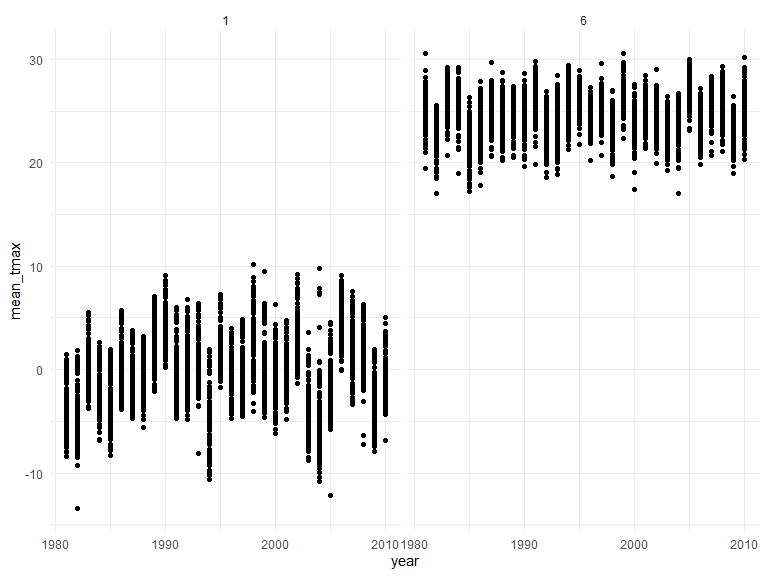
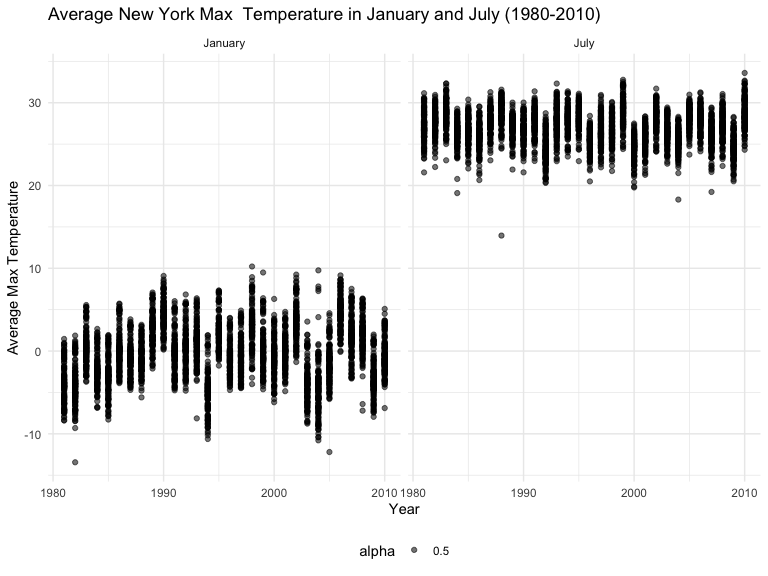
changed label to graph

diff --git a/p8105_hw3_pc2979.md b/p8105_hw3_pc2979.md
@@ -9,6 +9,7 @@ library(ggridges)
 library(patchwork)
 library(readxl)
 library(p8105.datasets)
+library(patchwork)
 
 knitr::opts_chunk$set(
     echo = TRUE,
@@ -114,7 +115,6 @@ instacart %>% count(aisle) %>% arrange(desc(n))
     ##  9 soy lactosefree                26240
     ## 10 bread                          23635
     ## # … with 124 more rows
-    ## # ℹ Use `print(n = ...)` to see more rows
 
 There are a total of 134 aisles. Most items were ordered from the fresh
 vegetables, fresh fruits, and packaged vegetables fruits aisles.
@@ -238,7 +238,7 @@ obvious.
 ``` r
 accel %>% 
   ggplot(aes(x = hour, y = activity, color = day_of_week)) + 
-  geom_point(aes(alpha = 0.5)) + 
+  geom_point(aes(alpha = 0.05)) + 
   scale_x_continuous(
     breaks = c(0, 6, 12, 18, 24)
   ) +
@@ -322,8 +322,8 @@ ny_noaa <-
     month = lubridate::month(date),
     day = lubridate::day(date),
     snow = ifelse(snow == -13, NA, snow),
-    tmax = as.numeric(tmax)/10,
-    tmin = as.numeric(tmin)/10,
+    tmax = (as.numeric(tmax))/10,
+    tmin = (as.numeric(tmin))/10,
     prcp = prcp/10
   )
 ```
@@ -351,7 +351,6 @@ ny_noaa %>%
     ##  9    38    9197
     ## 10     3    8790
     ## # … with 271 more rows
-    ## # ℹ Use `print(n = ...)` to see more rows
 
 The top 5 commonly observed values of snowfall is 0, 25, 13, 51, and 76.
 This is reasonable as most days in NY don’t experience snowfall and when
@@ -363,15 +362,37 @@ interpretable structure? Any outliers?
 
 ``` r
 ny_noaa %>%
+  filter(month %in% c(1,7)) %>%
   group_by(id, year, month) %>%
   summarize(mean_tmax = mean(tmax, na.rm = TRUE)) %>%
-  filter(month %in% c(1,6)) %>%
-  ggplot(aes(x = year, y = mean_tmax, group = id)) +
-  geom_point() +
-  facet_grid(~ month)
+  mutate(month = month.name[month]) %>%
+  ggplot(aes(x = year, y = mean_tmax)) +
+  geom_point(aes(alpha = 0.05)) +
+  facet_grid(~ month) +
+  labs(title = "Average New York Max  Temperature in January and July (1980-2010)",
+       x = "Year",
+       y = "Average Max Temperature") +
+  scale_y_continuous(
+    limits = c()
+  )
 ```
 
     ## `summarise()` has grouped output by 'id', 'year'. You can override using the
     ## `.groups` argument.
 
 <img src="p8105_hw3_pc2979_files/figure-gfm/unnamed-chunk-14-1.png" width="90%" />
+laj;sdkfja;lskdfja;lskdfj
+
+Make a two-panel plot showing (i) tmax vs tmin for the full dataset
+(note that a scatterplot may not be the best option); and (ii) make a
+plot showing the distribution of snowfall values greater than 0 and less
+than 100 separately by year.
+
+``` r
+tmax_tmin <- 
+  ny_noaa %>%
+  ggplot(aes(x = tmax, y = tmin)) +
+  geom_point()
+```
+
+WATTTTT
